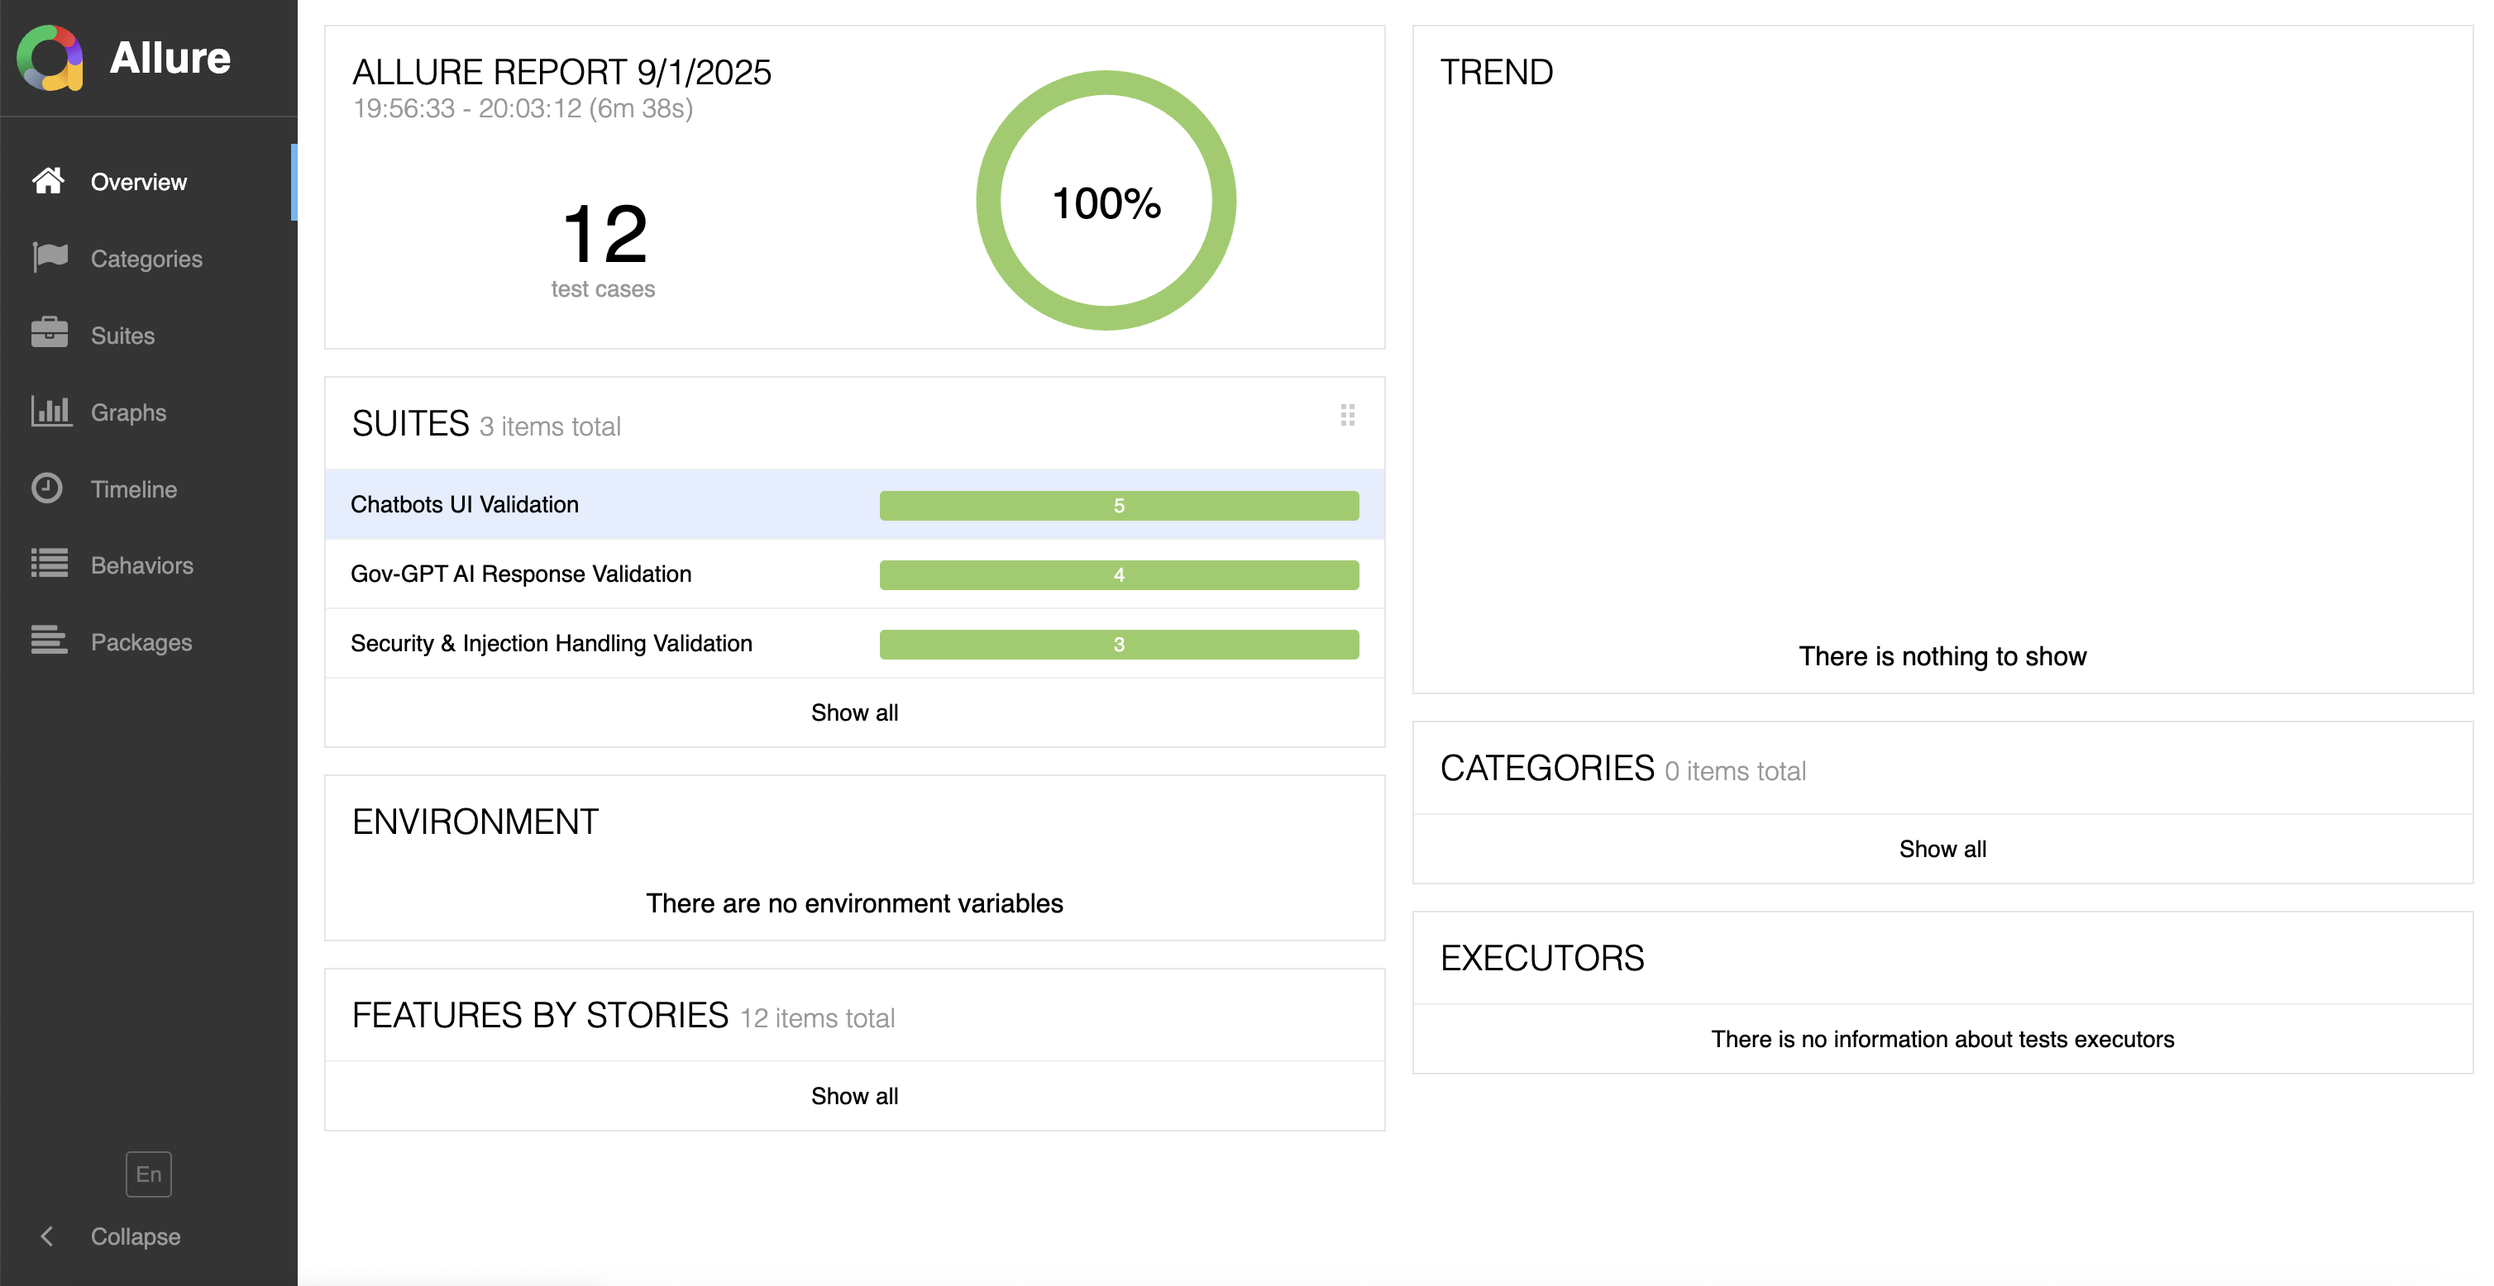
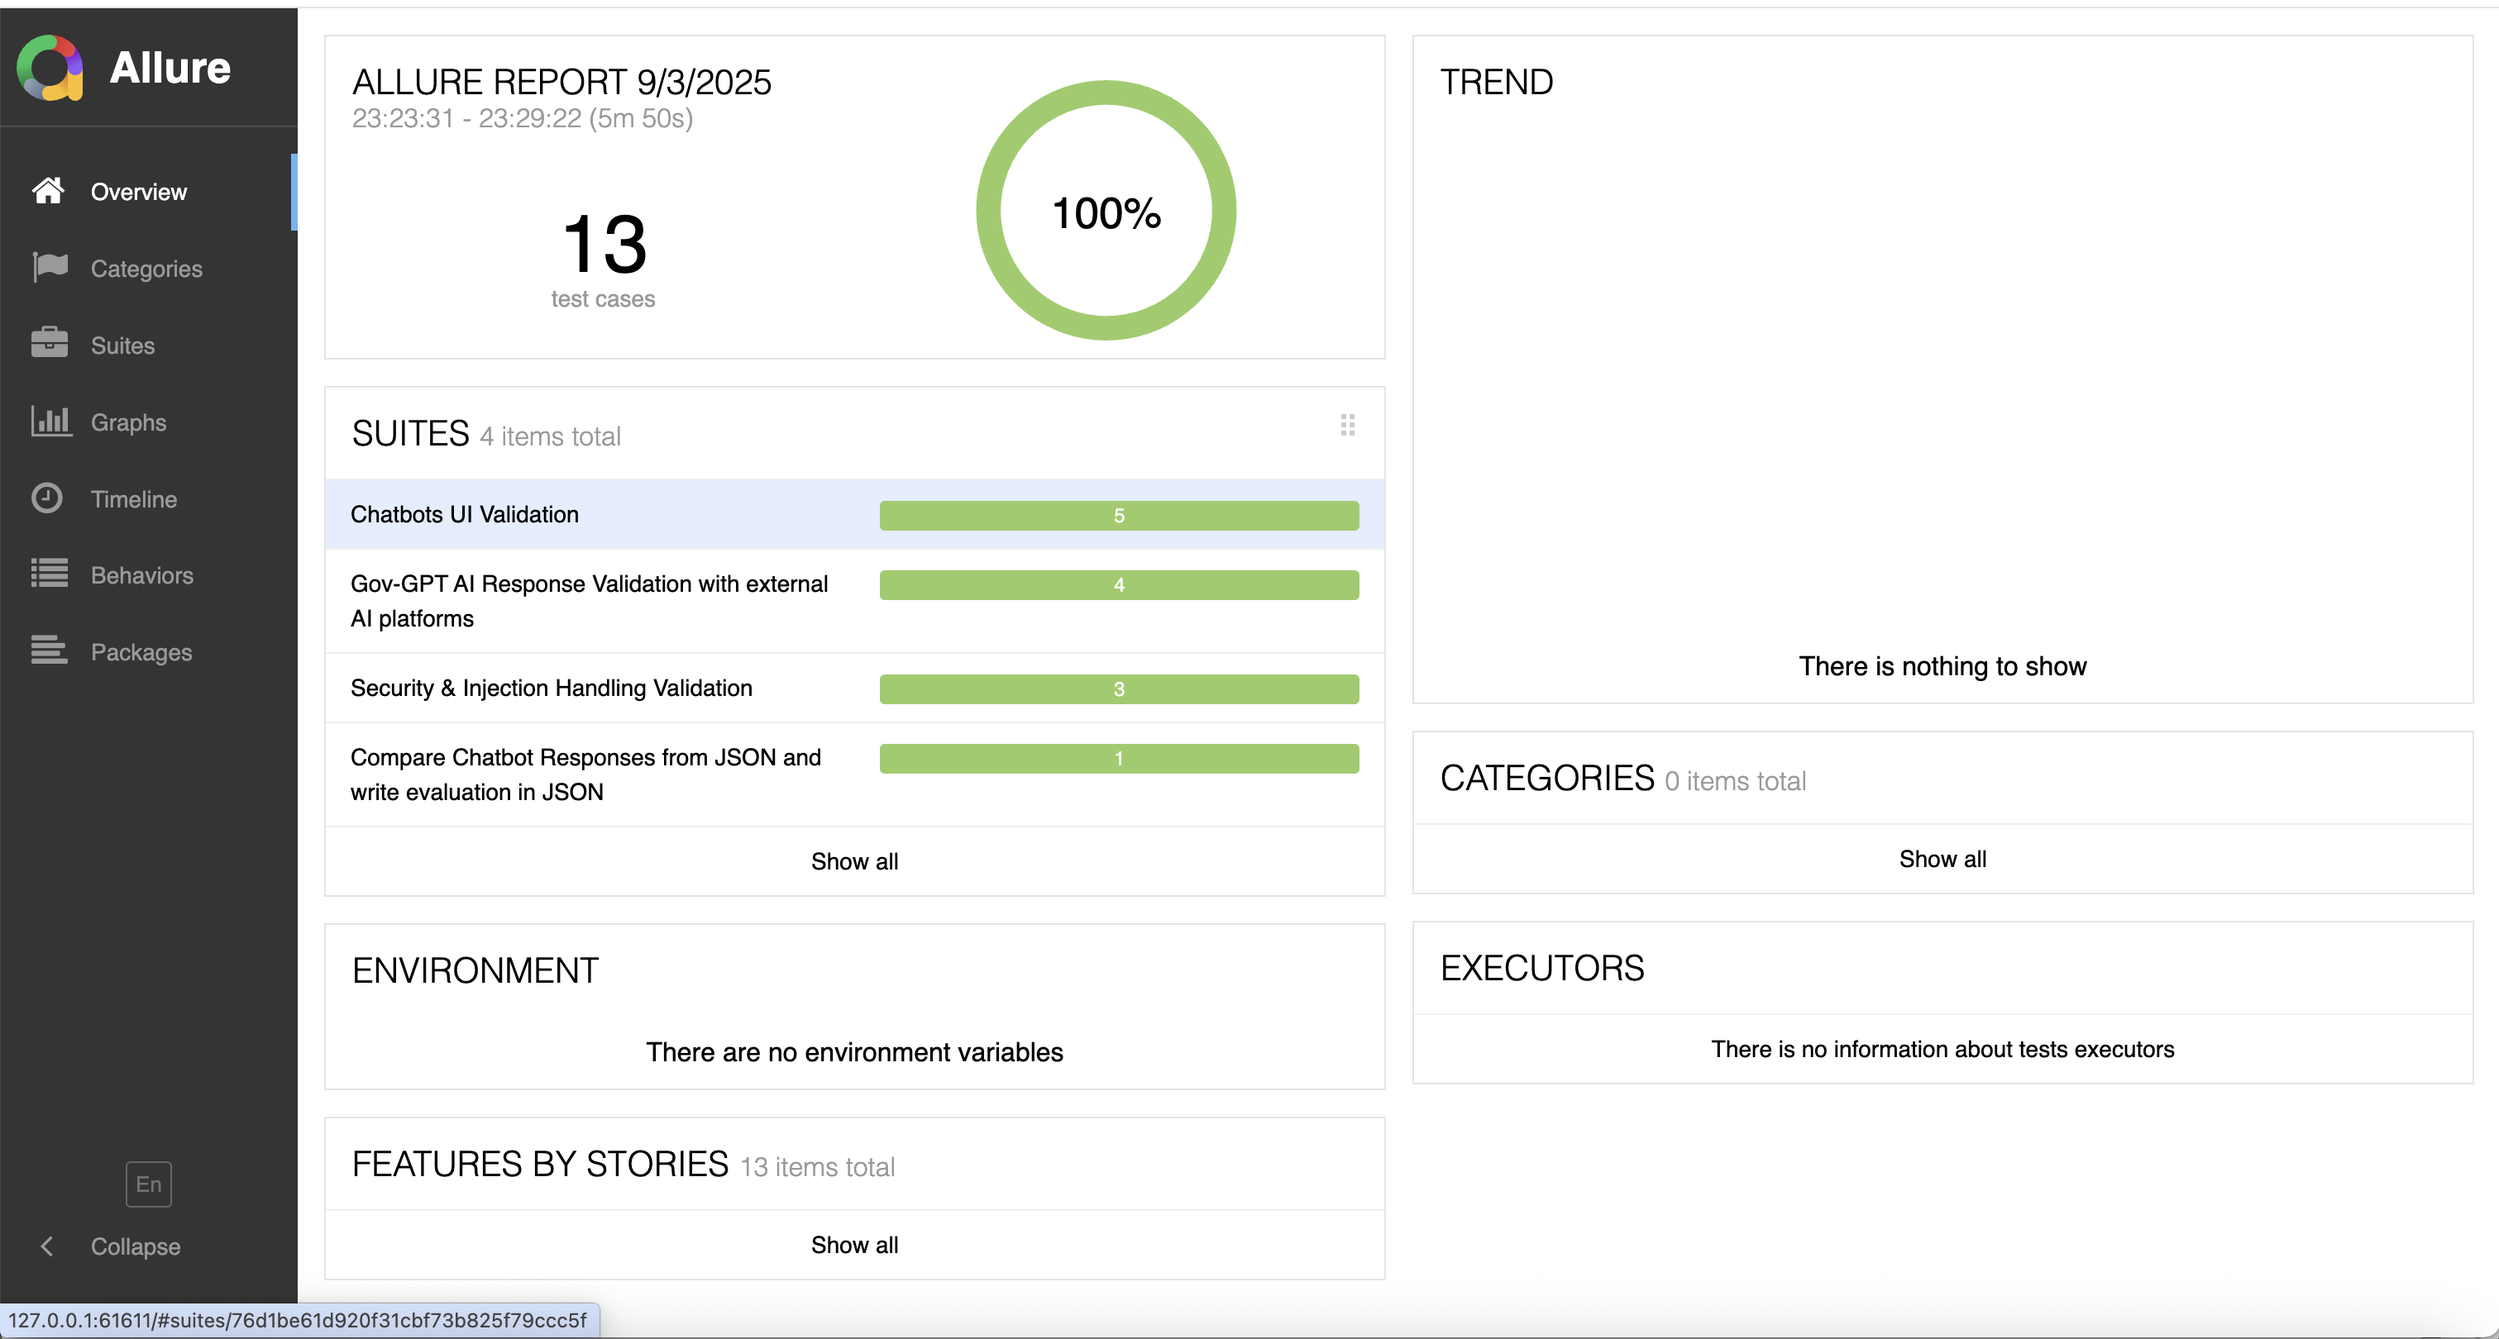
Modified some logic for improved accuracy of validation

diff --git a/cypress/e2e/ai-response-validation-service.cy.js b/cypress/e2e/ai-response-validation-service.cy.js
@@ -55,118 +55,104 @@ describe('Gov-GPT AI Response Validation with external AI platforms', () => {
             cy.log(`Verdict: ${evaluation.verdict}`);
 
             // Assert cosine similarity threshold
-            expect(evaluation.scores.lexicalSimilarity).to.be.greaterThan(50);
+            expect(evaluation.scores.lexicalSimilarity).to.be.greaterThan(40);
             expect(evaluation.scores.cosineSimilarity).to.be.greaterThan(50);
             expect(evaluation.verdict).to.not.equal('Responses differ significantly');
           });
         });
       });
+    });
+  });
 
-      it('Verification of AI provides clear response to user and compared chatbot responses from OPEN AI service', { retries: 2 }, () => {
-        // Load fixture data from test-data.json file
-        cy.fixture('test-data.json').then((testData) => {
+    it('Verification of AI provides clear response to user and compared chatbot responses from OPEN AI service', { retries: 2 }, () => {
+      // Load fixture data from test-data.json file
+      cy.fixture('test-data.json').then((testData) => {
 
-          // Get the language from Cypress environment variables
-          const language = Cypress.env('language') || 'en';
+        // Get the language from Cypress environment variables
+        const language = Cypress.env('language') || 'en';
 
-          // Find the query in fixture data matching category
-          const query = testData[language].common_queries.find(q => q.category === 'emirates id');
+        // Find the query in fixture data matching category
+        const query = testData[language].common_queries.find(q => q.category === 'emirates id');
 
-          // Store the expected keywords file path defined in the fixture for later validation
-          const filePath = query.filepath;
-          chatpage.sendMessage(query.prompt);
+        // Store the expected keywords file path defined in the fixture for later validation
+        const filePath = query.filepath;
+        chatpage.sendMessage(query.prompt);
 
-          // Send an HTTP request using Cypress to get unique chat id
-          cy.request({
-            method: 'GET',
-            url: '/api/v1/chats/',
-            headers: {
-              'Authorization': `Bearer ${Cypress.env('authToken')}`,
-              'Accept': Cypress.env('ContentType')
-            }
-          }).then((getResponse) => {
-            expect(getResponse.status).to.eq(200);
-            const chats = getResponse.body;
-            const chat = chats.find(c =>
-              c.title.toLowerCase().includes('emirates id document checklist'.toLowerCase())
-            );
+        // Send an HTTP request using Cypress to get unique chat id
+        cy.request({
+          method: 'GET',
+          url: '/api/v1/chats/',
+          headers: {
+            'Authorization': `Bearer ${Cypress.env('authToken')}`,
+            'Accept': Cypress.env('ContentType')
+          }
+        }).then((getResponse) => {
+          expect(getResponse.status).to.eq(200);
+          const chats = getResponse.body;
+          const chat = chats.find(c =>
+            c.title.toLowerCase().includes('emirates id document checklist'.toLowerCase())
+          );
 
-            // retrieve chat id
-            const chatId = chat.id;
+          // retrieve chat id
+          const chatId = chat.id;
 
-           // Calls custom command to get the last AI response from the API
-            cy.waitForFinalAIResponse(chatId).then((apiResponse) => {
+          // Calls custom command to get the last AI response from the API
+          cy.waitForFinalAIResponse(chatId).then((apiResponse) => {
 
-              // Reads expected response from a local fixture/file
-              cy.readFile(filePath).then((fileContent) => {
-                cy.request({
-                  method: 'POST',
-                  // Sends both responses to an external API (ninjaApi) for cosine similarity calculation 
-                  url: Cypress.env('ninjaApi')+'/v1/textsimilarity',
-                  headers: {
-                    'X-Api-Key': Cypress.env('ninjaApiKey'),
-                    'Content-Type': 'application/json'
-                  },
-                  body: {
-                    text_1: apiResponse.toLowerCase(),
-                    text_2: fileContent.toLowerCase()
-                  }
-                }).then((response) => {
-                  // Extracts similarity score from response
-                  const cosineScore = response.body.similarity;
-                  cy.log(`Cosine Similarity Score: ${(cosineScore * 100).toFixed(2)}%`);
-                  expect(cosineScore).to.be.greaterThan(0.6);
-                });
+            // Reads expected response from a local fixture/file
+            cy.readFile(filePath).then((fileContent) => {
+              cy.request({
+                method: 'POST',
+                // Sends both responses to an external API (ninjaApi) for cosine similarity calculation 
+                url: Cypress.env('ninjaApi') + '/v1/textsimilarity',
+                headers: {
+                  'X-Api-Key': Cypress.env('ninjaApiKey'),
+                  'Content-Type': 'application/json'
+                },
+                body: {
+                  text_1: apiResponse.toLowerCase(),
+                  text_2: fileContent.toLowerCase()
+                }
+              }).then((response) => {
+                // Extracts similarity score from response
+                const cosineScore = response.body.similarity;
+                cy.log(`Cosine Similarity Score: ${(cosineScore * 100).toFixed(2)}%`);
+                expect(cosineScore).to.be.greaterThan(0.6);
               });
             });
           });
         });
+      });
+    });
 
-        it('Verification of AI assistant provides clear response to user query', { retries: 2 }, () => {
-          cy.fixture('test-data.json').then((testData) => {
-            // Get the language from Cypress environment variables, defaulting to 'en' if not provided
-            const language = Cypress.env('language') || 'en';
+    it('Verification of responses are not hallucinated or irrelevant', { retries: 0 }, () => {
+      cy.fixture('test-data.json').then((testData) => {
+        const language = Cypress.env('language') || 'en';
 
-            // From the fixture data, locate the question under `common_queries`
-            const query = testData[language].common_queries.find(q => q.category === 'capital');
+        // From the fixture data, select the query belonging to the 'hallucinated' category
+        const query = testData[language].common_queries.find(q => q.category === 'hallucinated');
 
-            // Send the chatbot prompt message from the fixture 
-            chatpage.sendMessage(query.prompt);
+        chatpage.sendMessage(query.prompt);
 
-            // Validate the chatbot's response against the expected keywords
-            chatpage.validateAIResponse(query.expected_keywords);
-          });
-        });
+        // Store the list of hallucination indicators (phrases that suggest irrelevant or uncertain answers)
+        const hallucinationIndicators = query.expected_keywords;
 
-        it('Verification of responses are not hallucinated or irrelevant', { retries: 2 }, () => {
-          cy.fixture('test-data.json').then((testData) => {
-            const language = Cypress.env('language') || 'en';
+        // Validate the AI's response by asserting that none of the hallucination indicators appear
+        chatpage.validateResponseForHallucination(hallucinationIndicators);
+      });
+    });
 
-            // From the fixture data, select the query belonging to the 'hallucinated' category
-            const query = testData[language].common_queries.find(q => q.category === 'hallucinated');
+    it('Verification of HTML format without broken and open tags', { retries: 0 }, () => {
 
-            chatpage.sendMessage(query.prompt);
+      cy.fixture('test-data.json').then((testData) => {
+        const language = Cypress.env('language') || 'en';
+        const query = testData[language].common_queries.find(q => q.category === 'capital');
+        chatpage.sendMessage(query.prompt);
 
-            // Store the list of hallucination indicators (phrases that suggest irrelevant or uncertain answers)
-            const hallucinationIndicators = query.expected_keywords;
-
-            // Validate the AI's response by asserting that none of the hallucination indicators appear
-            chatpage.validateResponseForHallucination(hallucinationIndicators);
-          });
-        });
-
-        it('Verification of HTML format without broken', { retries: 2 }, () => {
-
-          cy.fixture('test-data.json').then((testData) => {
-            const language = Cypress.env('language') || 'en';
-            const query = testData[language].common_queries.find(q => q.category === 'capital');
-            chatpage.sendMessage(query.prompt);
-
-            // Validate that the chatbot response does not contain broken or unclosed HTML tags.
-            chatpage.validateResponseForBrokenHtml();
-          });
+        // Validate that the chatbot response does not contain broken or unclosed HTML tags.
+        cy.getStableResponse('#response-content-container', 60000).then(() => {
+          cy.validateResponseForBrokenHtml('#response-content-container');
         });
       });
     });
   });
-});

diff --git a/cypress/support/commands.js b/cypress/support/commands.js
@@ -8,52 +8,52 @@ Cypress.Commands.add('login', () => {
     .and('be.visible')
 });
 
-Cypress.Commands.add('getStableResponse',( selector = '#response-content-container', timeout = 60000, interval = 3000, stableThreshold = 2) => {
-    const placeholderTexts = [
-      '⏳ Just a sec...',
-      '💡 Thinking through your question...',
-      '📝 Formulating the best answer...'
-    ];
+Cypress.Commands.add('getStableResponse', (selector, timeout = 60000, interval = 3000, stableThreshold = 2) => {
+  const placeholderTexts = [
+    '⏳ Just a sec...',
+    '💡 Thinking through your question...',
+    '📝 Formulating the best answer...'
+  ];
 
-    let lastText = '';
-    let stableCount = 0;
-    const start = Date.now();
+  let lastText = '';
+  let stableCount = 0;
+  const start = Date.now();
 
-    function check() {
-      return cy.get(selector)
-        .last()
-        .invoke('text')
-        .then((text) => {
-          const trimmed = text.trim();
+  function check() {
+    return cy.get(selector)
+      .last()
+      .invoke('text')
+      .then((text) => {
+        const trimmed = text.trim();
 
-          // Ignore placeholder messages
-          if (placeholderTexts.includes(trimmed)) {
-            return cy.wait(interval).then(check);
-          }
-
-          // Check if text is stable
-          if (trimmed && trimmed === lastText) {
-            stableCount++;
-            if (stableCount >= stableThreshold) {
-              // Wrap the final stable text for Cypress chaining
-              return cy.wrap(trimmed);
-            }
-          } else {
-            lastText = trimmed;
-            stableCount = 0;
-          }
-
-          // Timeout exception
-          if (Date.now() - start > timeout) {
-            throw new Error(
-              `AI response did not stabilize in time. Last text: "${lastText}"`
-            );
-          }
+        // Ignore placeholder messages
+        if (placeholderTexts.includes(trimmed)) {
           return cy.wait(interval).then(check);
-        });
-    }
-    return check();
+        }
+
+        // Check if text is stable
+        if (trimmed && trimmed === lastText) {
+          stableCount++;
+          if (stableCount >= stableThreshold) {
+            // Wrap the final stable text for Cypress chaining
+            return cy.wrap(trimmed);
+          }
+        } else {
+          lastText = trimmed;
+          stableCount = 0;
+        }
+
+        // Timeout exception
+        if (Date.now() - start > timeout) {
+          throw new Error(
+            `AI response did not stabilize in time. Last text: "${lastText}"`
+          );
+        }
+        return cy.wait(interval).then(check);
+      });
   }
+  return check();
+}
 );
 
 
@@ -87,6 +87,15 @@ Cypress.Commands.add('waitForFinalAIResponse', (chatId, timeout = 10000, interva
   return check();
 });
 
+Cypress.Commands.add('validateResponseForBrokenHtml', (selector = '#response-content-container') => {
+  cy.get(selector)
+    .last()
+    .should('exist')
+    .invoke('html')
+    .then((html) => {
+      expect(html, 'Response ends with incomplete HTML tag').not.to.match(/<[^>]*$/);
+    });
+});
 
 Cypress.Commands.add('setLanguage', (language) => {
   cy.get('[data-testid="language-switcher"]').click();
@@ -160,5 +169,4 @@ Cypress.Commands.add('validateResponse', (expectedKeywords, timeout = 60000) => 
         expect(isFallback).to.be.true;
       });
   });
-
 });

diff --git a/cypress/pages/chatpage.js b/cypress/pages/chatpage.js
@@ -40,6 +40,14 @@ class ChatPage {
 
   }
 
+  get hallucinatedOccurance(){
+    return cy.get("#response-content-container");
+}
+
+  validateHallucinatedResponse(){
+    this.hallucinatedOccurance.should('be.visible');
+  }
+
   validateChatScreen() {
     this.chatWidget.should('be.visible');
     this.title.should('be.visible');
@@ -59,21 +67,25 @@ class ChatPage {
     });
   }
 
-
-  validateAIResponse(keywords) {
-    this.lastAIResponse.invoke('text').then((text) => {
-      keywords.forEach(keyword => expect(text.toLowerCase()).to.contain(keyword.toLowerCase()));
+  validateResponseForHallucination(keywords, selector = '#response-content-container') {
+    // Wait until the AI response text stabilizes
+    cy.getStableResponse(selector, 60000).then((finalText) => {
+      const lowerText = finalText.toLowerCase().trim();
+      // Collect any hallucination keywords found in the response
+      const foundKeywords = keywords.filter((keyword) =>
+        lowerText.includes(keyword.toLowerCase())
+      );
+      // Assert that no hallucination keywords are present
+      expect(
+        foundKeywords,
+        `Response contains hallucination keywords: ${foundKeywords.join(', ')}`
+      ).to.be.empty;
     });
   }
-
-  validateResponseForHallucination(keywords) {
-    this.lastAIResponse.invoke('text').then((text) => {
-      keywords.forEach(keyword => expect(text.toLowerCase()).to.not.include(keyword.toLowerCase()));
-    });
-  }
+  
 
   validateResponseForBrokenHtml() {
-    this.lastAIResponse.invoke('html').then((html) => {
+    this.lastAIResponse.should('exist').invoke('html').then((html) => {
       // Check that there are no unclosed HTML tags at the end
       expect(html).not.to.match(/<[^>]*$/);
     });

diff --git a/README.md b/README.md
@@ -61,4 +61,5 @@ This framework automates validation of a chatbot's behavior:
 ## Reports
 Reports are saved in:  
 `reports/`
+
 ![Alt text](allure-report.png)
